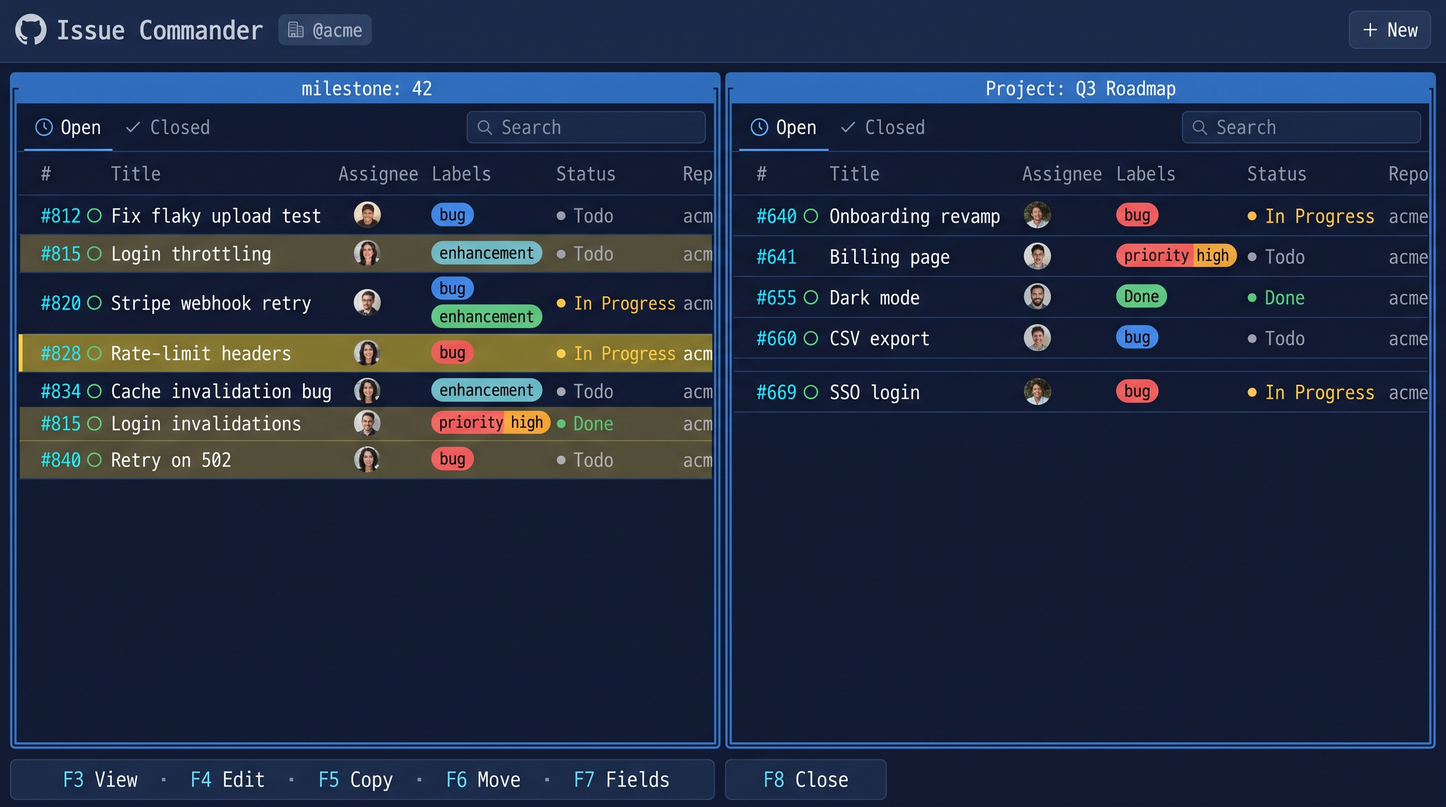
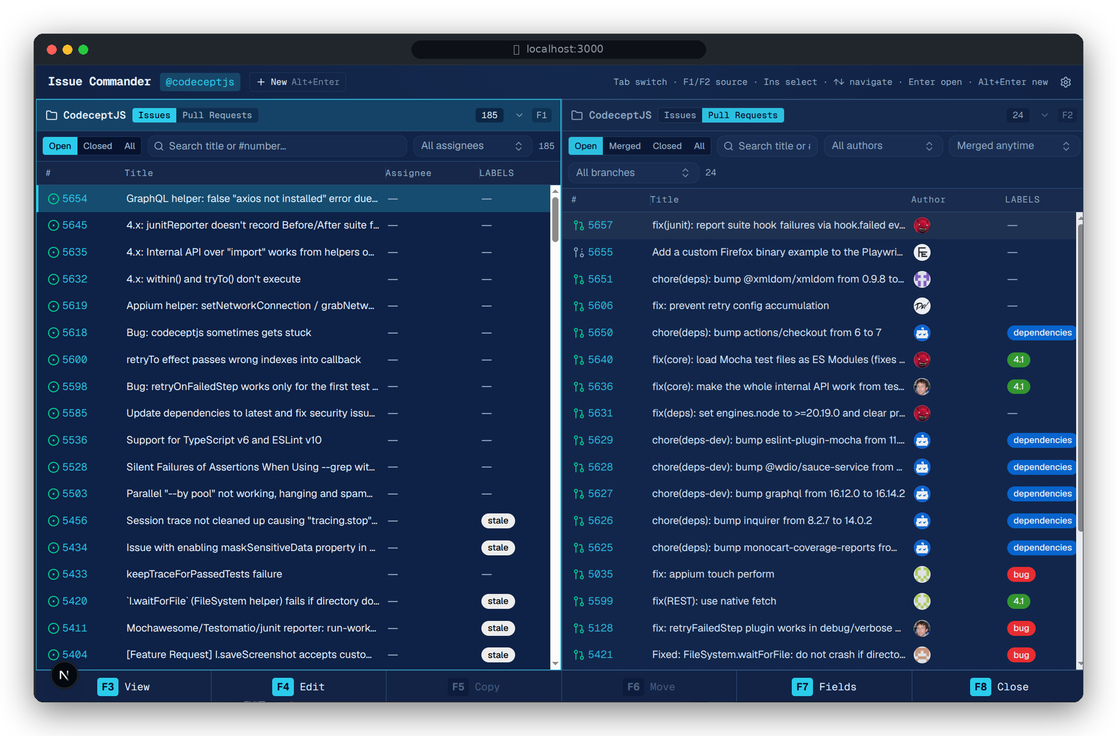
Use a browser-framed app screenshot as the README demo
Replace the placeholder @acme mock with a real CodeceptJS screenshot
(issues beside pull requests) wrapped in a macOS-style browser frame.

diff --git a/README.md b/README.md
@@ -17,7 +17,7 @@ GITHUB_ORG=your-org npx issue-commander
 ```
 
 <p align="center">
-  <img src="issue-commander-screenshot.png" alt="Issue Commander — a milestone pane beside a project pane" width="900" />
+  <img src="issue-commander-screenshot.png" alt="Issue Commander — a repository's issues beside its pull requests" width="900" />
 </p>
 
 ---
